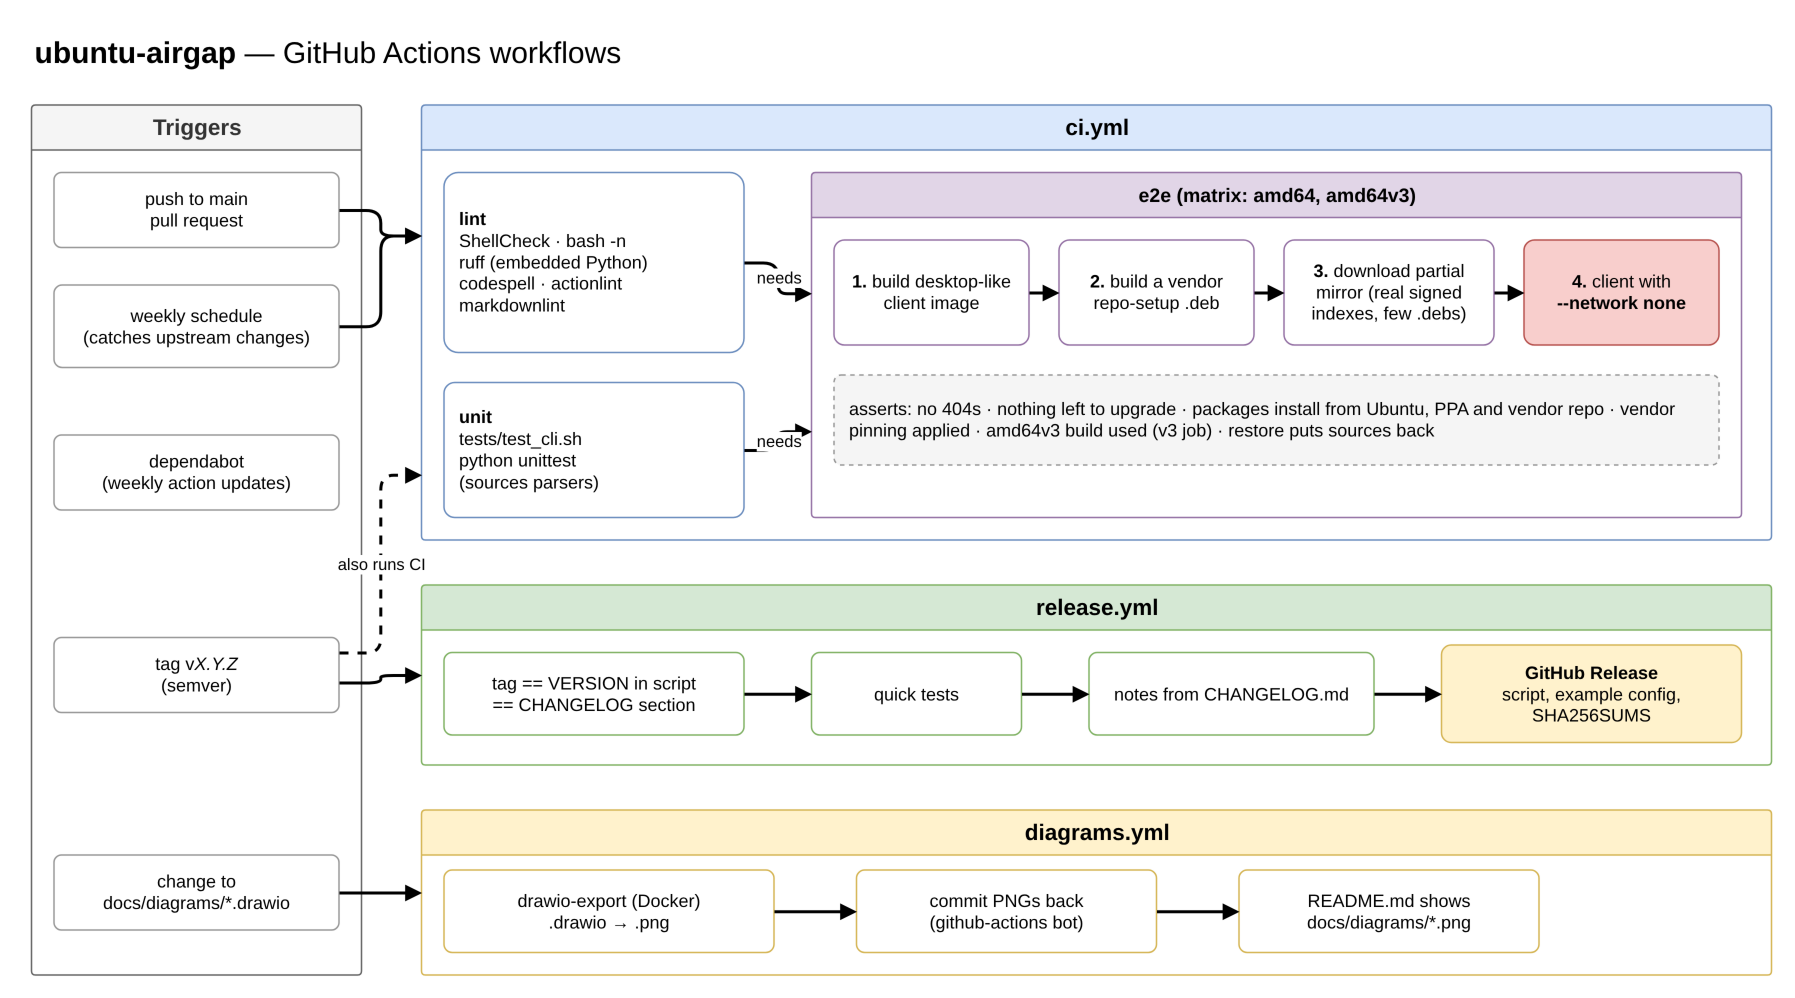
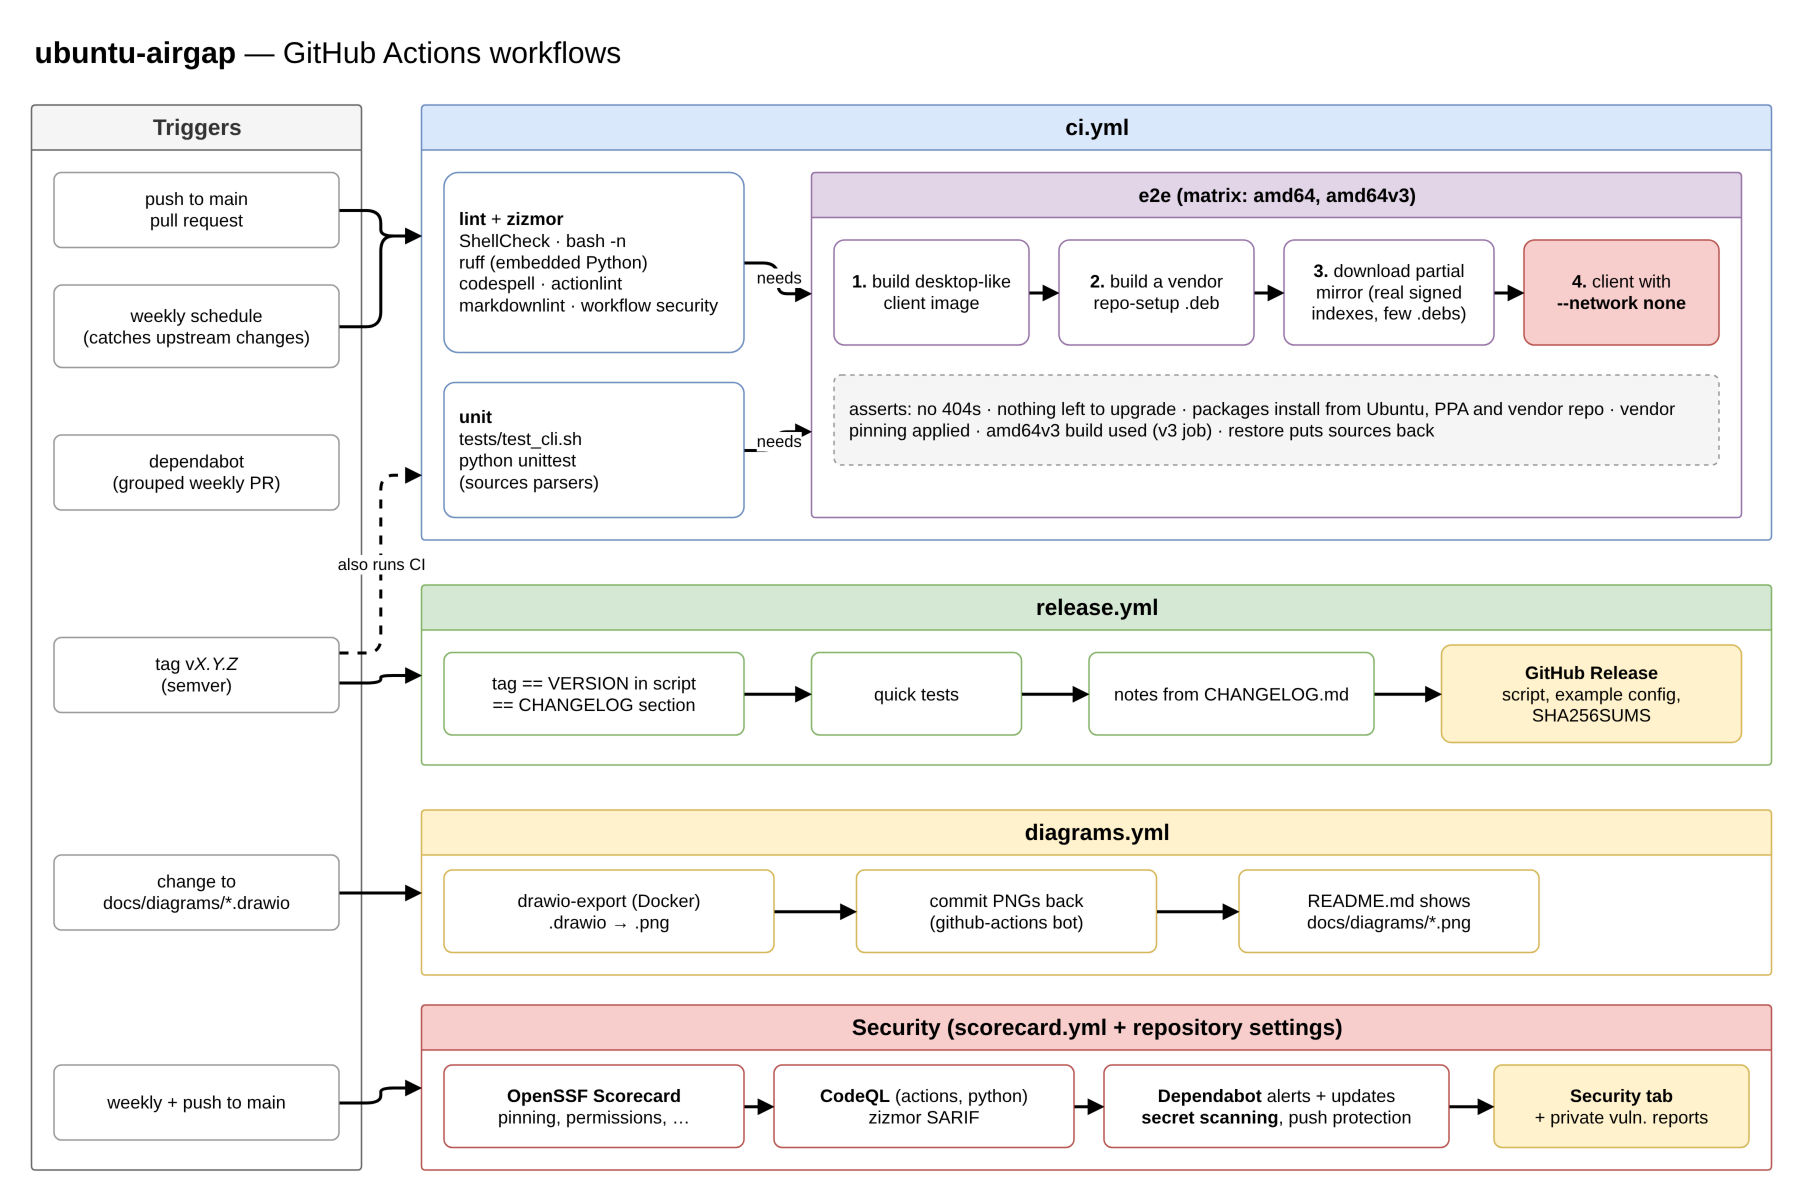
fix: security hardening, current actions, release badge (v0.1.1)
- Pin all GitHub Actions to commit SHAs at their latest majors (checkout v7,
  setup-python v7, upload-artifact v7); persist-credentials: false; per-job
  write permissions; pinned tool versions; Python 3.14
- Add zizmor workflow audit, OpenSSF Scorecard, SECURITY.md (trust model,
  private vulnerability reporting); group Dependabot action updates
- Never fall back to a predictable /tmp log path (symlink attack); warn on
  http:// key URLs
- Retry debmirror when the archive republishes mid-download; e2e accepts
  InRelease or Release+Release.gpg
- Release badge: new URL so the cached 'no releases found' image is refreshed

diff --git a/SECURITY.md b/SECURITY.md
@@ -1,0 +1,44 @@
+# Security policy
+
+## Supported versions
+
+Only the latest release receives fixes.
+
+| Version | Supported |
+|---|---|
+| latest `0.x` release | yes |
+| older | no |
+
+## Reporting a vulnerability
+
+Please **do not open a public issue** for security problems.
+
+Report them privately through GitHub instead:
+**Security → Advisories → [Report a vulnerability](https://github.com/636B65/ubuntu-airgap/security/advisories/new)**.
+
+Include the version (`ubuntu-airgap.sh version`), what you ran, and what an
+attacker could achieve. You should get an answer within a week.
+
+## Trust model
+
+`ubuntu-airgap` moves packages to a machine without a network. These are the
+things it trusts and the things it verifies:
+
+| Item | How it is protected |
+|---|---|
+| Ubuntu packages and indexes | `debmirror` checks the GPG signature and checksums when downloading. The air-gapped apt checks them **again** against the `ubuntu-archive-keyring` already on that machine, so a modified disk is detected. |
+| Extra repositories (`--repo`, `--ppa`, `--repo-deb`) | Signatures and checksums are checked with the repository's key. The keys are carried on the mirror disk and installed from there, so for these repos **the disk is trusted**. PPA keys are checked against the fingerprint Launchpad reports. |
+| `ubuntu-airgap.sh` on the disk | It runs as root on the air-gapped machine, so **the disk is trusted**. Compare it with the `SHA256SUMS` of the release, or keep a known-good copy on the air-gapped machine and run `install --mirror DIR`. |
+| HTTP server | Binds to `127.0.0.1` by default. With `serve --bind 0.0.0.0` the mirror is readable without authentication on the LAN; it contains only public packages. |
+
+Keep the mirror disk under your control between the online and the air-gapped
+machine.
+
+## Automated checks
+
+- CI runs ShellCheck, [zizmor](https://docs.zizmor.sh/) (GitHub Actions
+  security), and an offline end-to-end test on every change.
+- CodeQL code scanning, OpenSSF Scorecard, Dependabot alerts and security
+  updates, and secret scanning with push protection are enabled for this
+  repository.
+- All GitHub Actions are pinned to commit SHAs and kept current by Dependabot.

diff --git a/README.md b/README.md
@@ -1,7 +1,8 @@
 # ubuntu-airgap
 
 [![CI](https://github.com/636B65/ubuntu-airgap/actions/workflows/ci.yml/badge.svg)](https://github.com/636B65/ubuntu-airgap/actions/workflows/ci.yml)
-[![Release](https://img.shields.io/github/v/release/636B65/ubuntu-airgap?sort=semver)](https://github.com/636B65/ubuntu-airgap/releases)
+[![Release](https://img.shields.io/github/v/release/636B65/ubuntu-airgap?sort=semver&display_name=tag&cacheSeconds=3600)](https://github.com/636B65/ubuntu-airgap/releases/latest)
+[![OpenSSF Scorecard](https://api.scorecard.dev/projects/github.com/636B65/ubuntu-airgap/badge)](https://scorecard.dev/viewer/?uri=github.com/636B65/ubuntu-airgap)
 [![License: MIT](https://img.shields.io/badge/license-MIT-blue.svg)](LICENSE)
 
 Keep an **air-gapped Ubuntu 26.04 LTS** ("resolute") machine up to date with a
@@ -198,6 +199,11 @@ from the same mirror.
   match the one Launchpad reports for that PPA.
 - The download container runs as your user, not root, so the files on the disk
   belong to you.
+- **The disk is trusted** for the script itself, which runs as root, and for the
+  keys of extra repositories, which are installed from the disk. Ubuntu packages
+  do not depend on this, because they are checked against the keyring already on
+  the machine. See [SECURITY.md](SECURITY.md) for the full trust model and how to
+  report a vulnerability.
 
 ## Not covered
 
@@ -231,9 +237,11 @@ What has been verified so far:
   mirrors on exFAT/NTFS disks. Hard links fall back to copies there, which is
   implemented but not tested.
 
-CI runs ShellCheck, ruff, codespell, actionlint, markdownlint, the unit tests and
-the end-to-end test (amd64 and amd64v3) on every push, and once a week to catch
-upstream changes.
+CI runs ShellCheck, ruff, codespell, actionlint, markdownlint, zizmor (workflow
+security), the unit tests and the end-to-end test (amd64 and amd64v3) on every
+push, and once a week to catch upstream changes. CodeQL, OpenSSF Scorecard,
+Dependabot and secret scanning report to the repository's Security tab. All
+actions are pinned to commit SHAs.
 
 ### CI workflows
 

diff --git a/CHANGELOG.md b/CHANGELOG.md
@@ -6,6 +6,35 @@ and this project adheres to [Semantic Versioning](https://semver.org/spec/v2.0.0
 
 ## [Unreleased]
 
+## [0.1.1] - 2026-11-17
+
+### Security
+
+- The HTTP server log no longer falls back to the predictable path
+  `/tmp/ubuntu-airgap-http.log`, which a local user could pre-create as a
+  symlink and make root truncate a file. It now uses `mktemp`, and only uses
+  `/var/log` when that path is not a symlink.
+- A warning is printed when a repository key is downloaded over plain `http://`.
+- GitHub Actions are pinned to commit SHAs, checkouts no longer keep the token
+  on disk, and write permission is granted per job.
+- Added zizmor (workflow security) to CI, plus CodeQL and OpenSSF Scorecard code
+  scanning, `SECURITY.md` with the trust model, and private vulnerability
+  reporting.
+
+### Fixed
+
+- A failed `debmirror` run is retried (up to 3 attempts). This covers the Ubuntu
+  archive republishing during a download.
+- The end-to-end test accepts either `InRelease` or `Release` + `Release.gpg`,
+  as apt does.
+- The release badge now links to the latest release.
+
+### Changed
+
+- GitHub Actions updated to their current major versions (checkout v7,
+  setup-python v7, upload-artifact v7), and CI uses Python 3.14 with pinned tool
+  versions. Dependabot updates for actions are grouped into one PR.
+
 ## [0.1.0] - 2026-11-16
 
 ### Added
@@ -32,5 +61,6 @@ and this project adheres to [Semantic Versioning](https://semver.org/spec/v2.0.0
 - CI: ShellCheck, ruff, codespell, actionlint, markdownlint, unit tests, and an
   offline end-to-end test (amd64 and amd64v3). There is also a release workflow.
 
-[Unreleased]: https://github.com/636B65/ubuntu-airgap/compare/v0.1.0...HEAD
+[Unreleased]: https://github.com/636B65/ubuntu-airgap/compare/v0.1.1...HEAD
+[0.1.1]: https://github.com/636B65/ubuntu-airgap/compare/v0.1.0...v0.1.1
 [0.1.0]: https://github.com/636B65/ubuntu-airgap/releases/tag/v0.1.0
